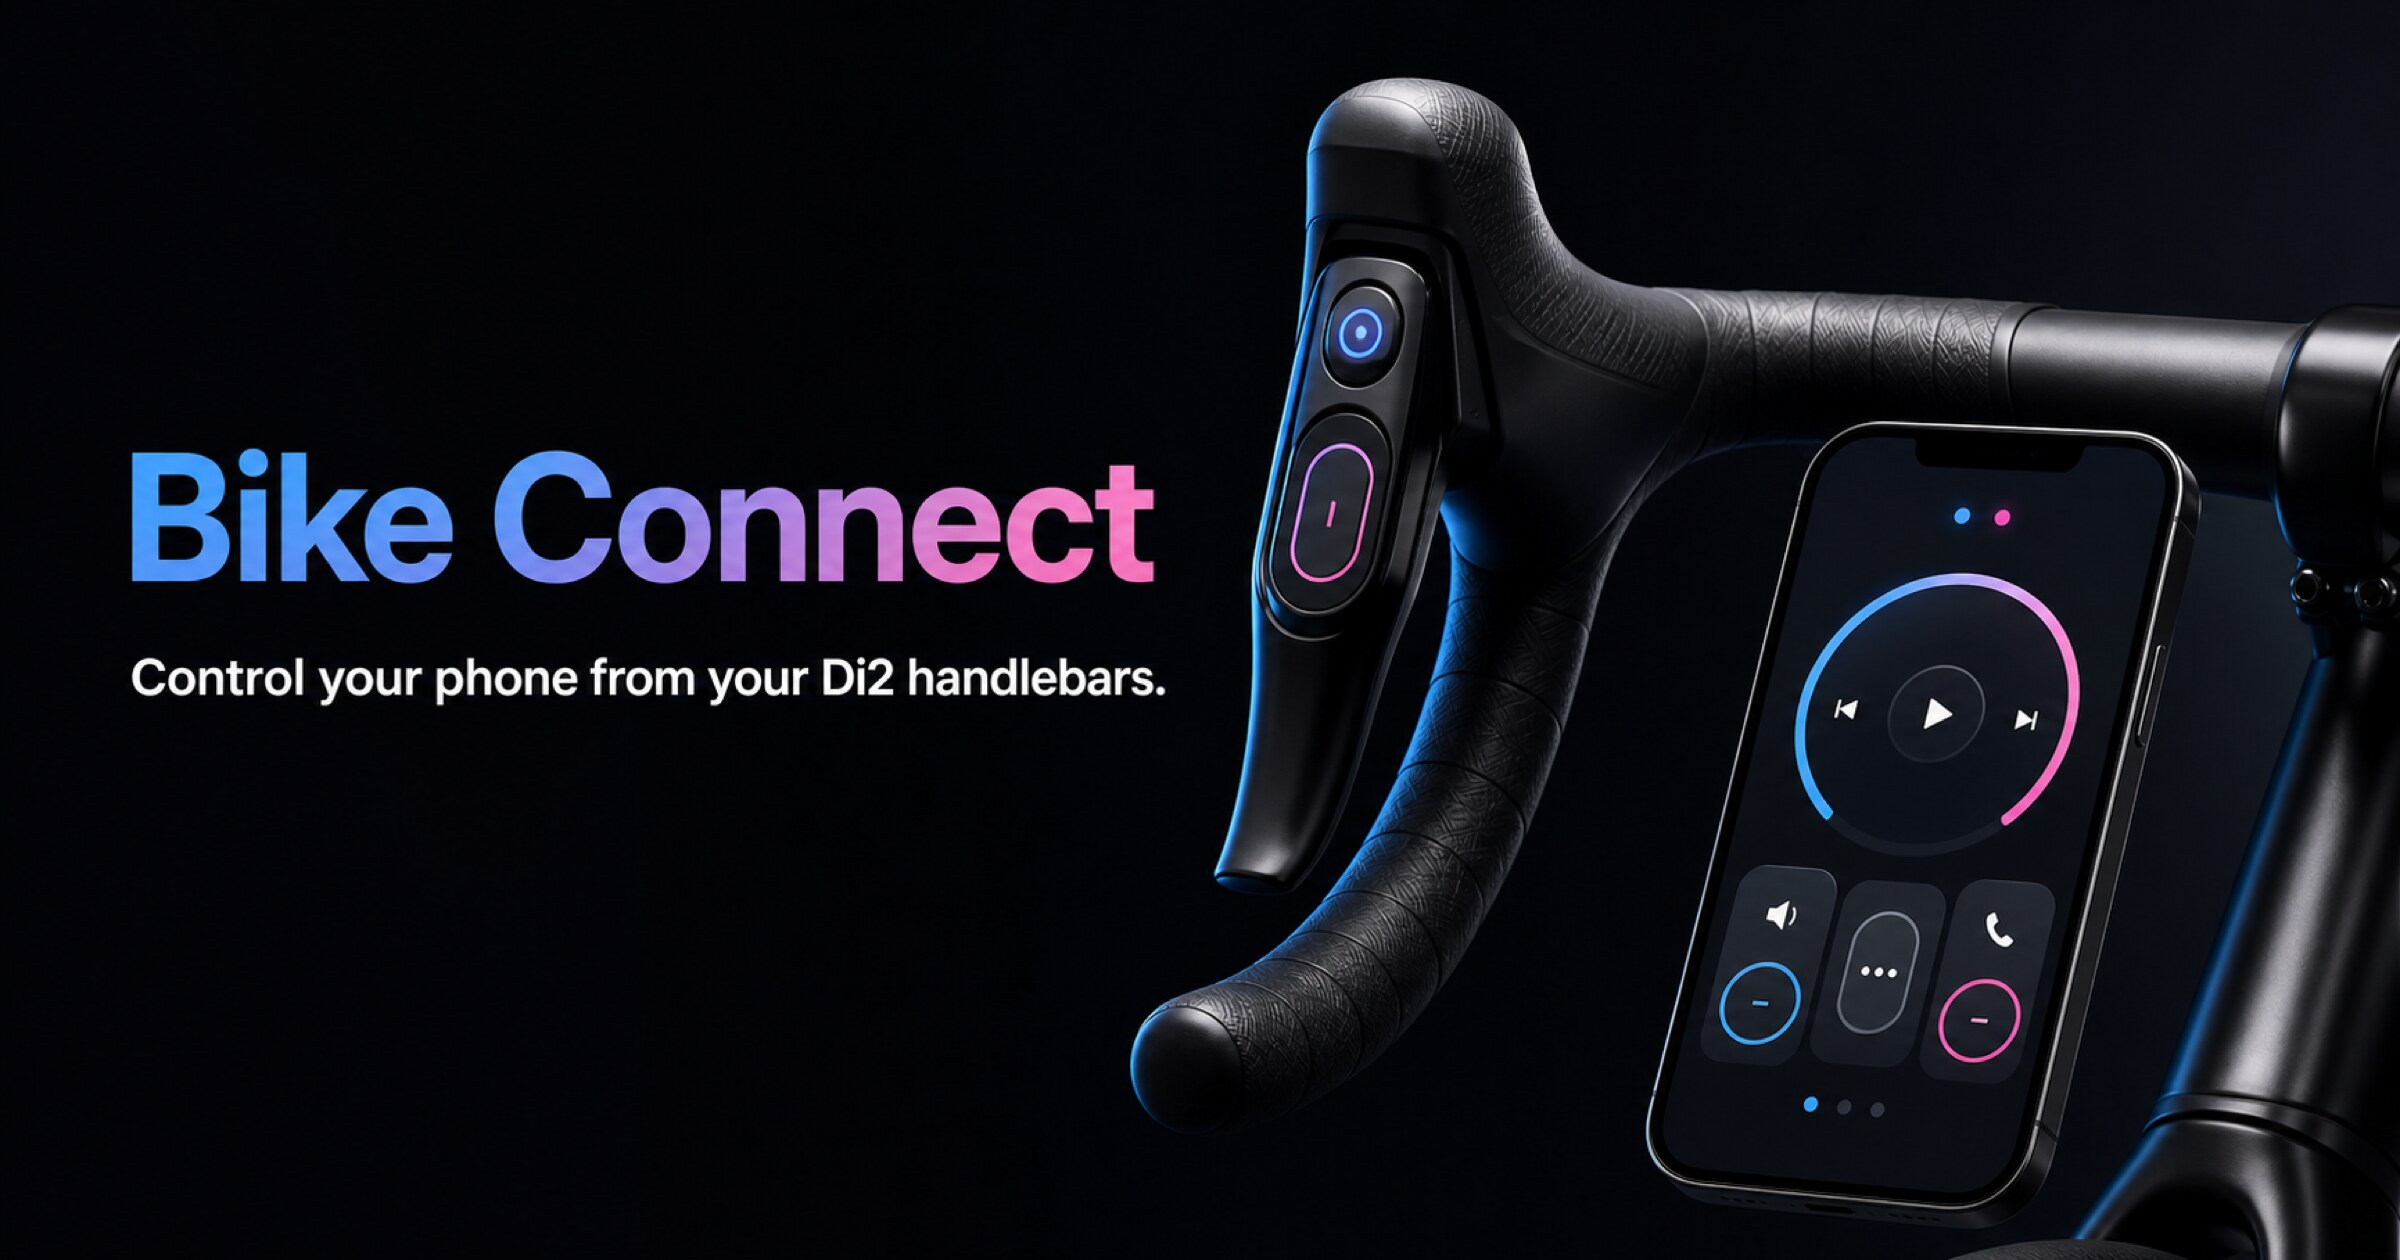
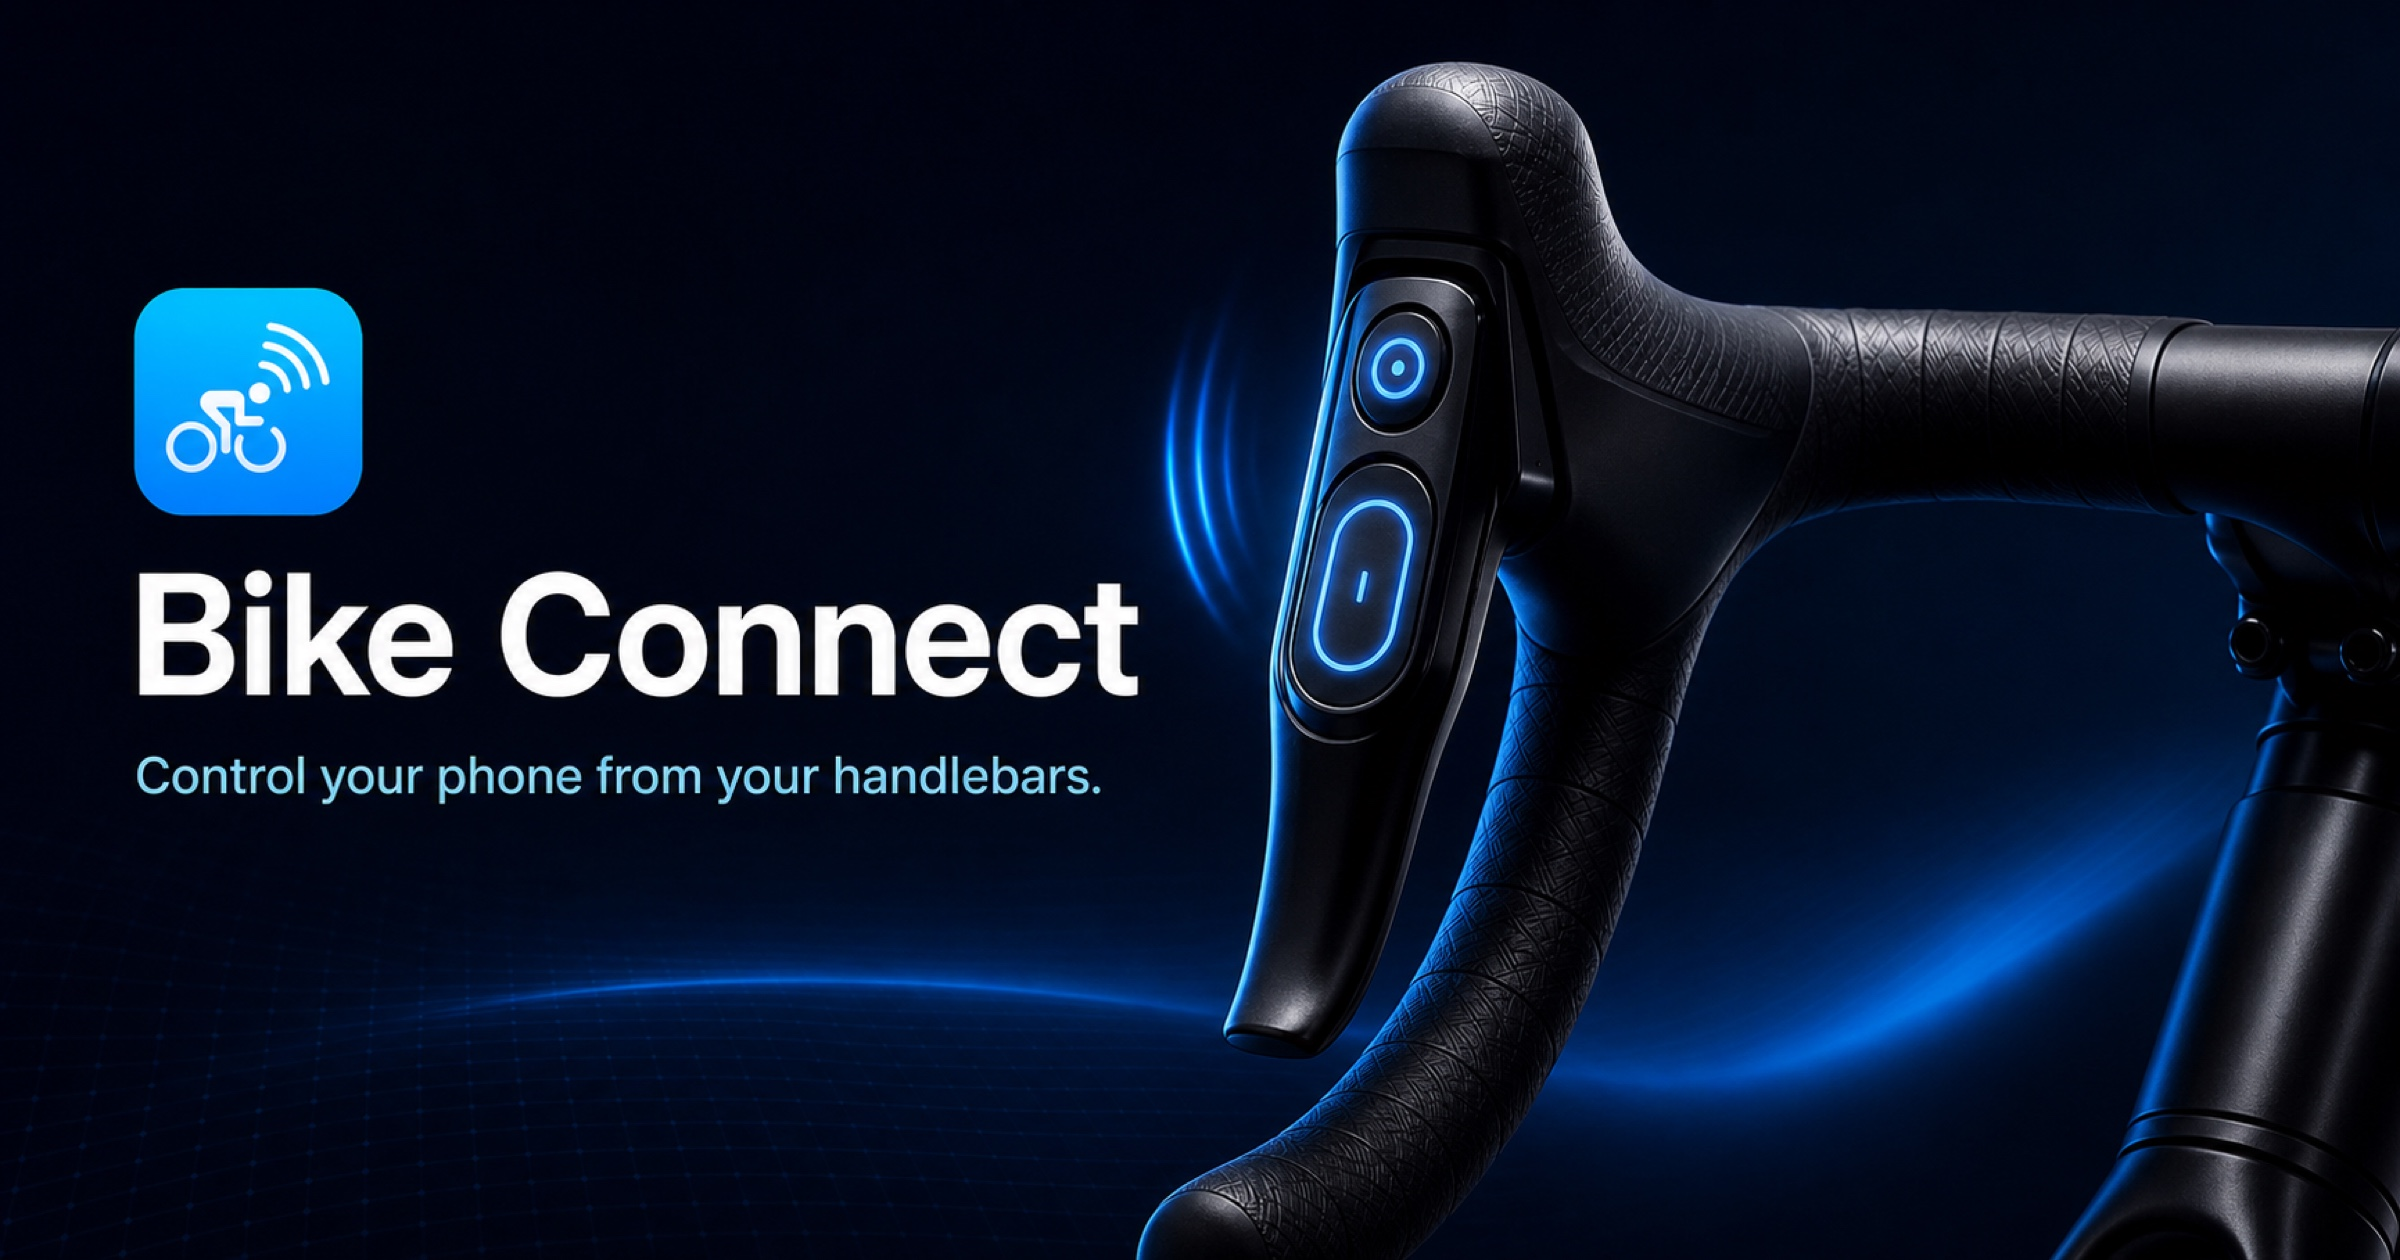
🧹 Update og-image, remove unused assets

diff --git a/src/App.tsx b/src/App.tsx
@@ -1,4 +1,4 @@
-import { useEffect, useState } from 'react'
+import { useState } from 'react'
 import { Footer, Header, StoreButtons } from './SiteChrome'
 import Aurora from './components/reactbits/Aurora'
 import FadeContent from './components/reactbits/FadeContent'
@@ -40,15 +40,6 @@ function HeroVideo() {
 
 function App() {
   const [openFaq, setOpenFaq] = useState<number | null>(null)
-  const [showStickyBar, setShowStickyBar] = useState(false)
-
-  useEffect(() => {
-    const hero = document.querySelector('.hero')
-    if (!hero) return
-    const observer = new IntersectionObserver(([entry]) => setShowStickyBar(!entry.isIntersecting), { threshold: 0.05 })
-    observer.observe(hero)
-    return () => observer.disconnect()
-  }, [])
 
   return (
     <>
@@ -137,10 +128,9 @@ function App() {
           </div>
         </section>
 
-        <section id="download" className="final-cta-section"><div className="container final-cta"><img src="/app-icon-ios.png" alt="" width="96" height="96" /><p className="eyebrow">Ready to ride smarter?</p><h2>Put control back under your thumbs.</h2><p>Choose your platform and make every extra Di2 button count.</p><StoreButtons placement="final" /></div></section>
+        <section id="download" className="final-cta-section"><div className="container final-cta"><img src="/app-icon-ios.png" alt="" width="96" height="96" /><p className="eyebrow">Ready to ride smarter?</p><h2>Put control back under your thumbs.</h2><p className="final-cta-copy"><span>Choose your platform and make</span>{' '}<span>every extra Di2 button count.</span></p><StoreButtons placement="final" /></div></section>
       </main>
 
-      {showStickyBar && <div className="sticky-download" role="region" aria-label="Download Bike Connect"><span>Bike Connect</span><a href="#download">Get the app</a></div>}
       <Footer />
     </>
   )

diff --git a/src/index.css b/src/index.css
@@ -792,30 +792,6 @@ h1 {
   color: #aeb7c3;
 }
 
-.sticky-download {
-  position: fixed;
-  right: 1rem;
-  bottom: 1rem;
-  z-index: 18;
-  display: flex;
-  align-items: center;
-  gap: 1rem;
-  padding: 0.55rem 0.55rem 0.55rem 1rem;
-  border: 1px solid rgba(255, 255, 255, 0.18);
-  border-radius: 999px;
-  background: rgba(12, 16, 23, 0.9);
-  box-shadow: 0 16px 50px rgba(0, 0, 0, 0.4);
-  backdrop-filter: blur(16px);
-  font-size: 0.9rem;
-  font-weight: 720;
-}
-
-.sticky-download a {
-  padding: 0.6rem 0.9rem;
-  border-radius: 999px;
-  background: linear-gradient(135deg, var(--blue-deep), #2db9ff);
-}
-
 .site-footer {
   padding-block: 3.5rem;
   border-top: 1px solid var(--border);
@@ -989,6 +965,10 @@ h1 {
 
   .proof-list {
     margin-top: 1.25rem;
+  }
+
+  .final-cta-copy span {
+    display: block;
   }
 
   .store-buttons {
@@ -1189,10 +1169,6 @@ h1 {
 
   .demo-grid {
     grid-template-columns: minmax(0, 340px);
-  }
-
-  .sticky-download {
-    display: none;
   }
 
 }

diff --git a/src/SiteChrome.tsx b/src/SiteChrome.tsx
@@ -97,7 +97,7 @@ export function Footer() {
         </nav>
         <p className="legal-note">
           <span>Bike Connect is an independent app and is not affiliated with or endorsed by Shimano.</span>
-          <span>Shimano and Di2 are trademarks of their respective owners.</span>
+          <span>Shimano and Di2 are trademarks of Shimano Inc.</span>
         </p>
         <p className="maker-note">Made with <span aria-label="love">🩵</span> by <a href="https://ryanforsyth.dev" target="_blank" rel="noopener noreferrer">Ryan</a> &amp; <a href="https://tstyles.dev/" target="_blank" rel="noopener noreferrer">Taylor</a></p>
       </div>
